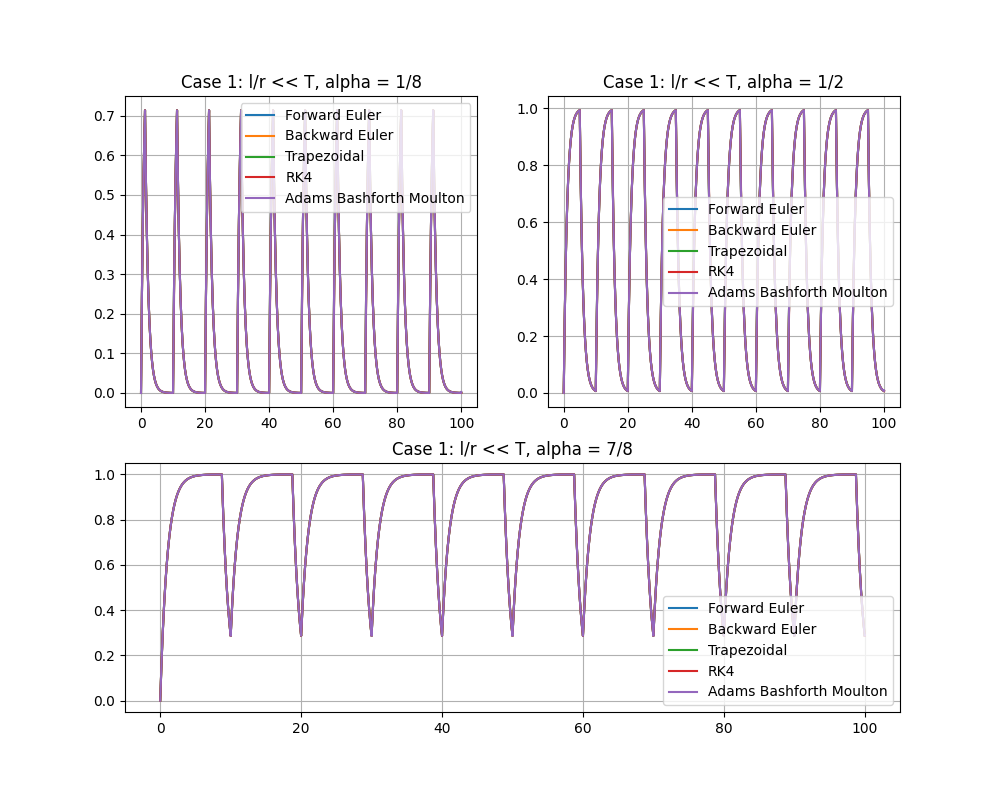
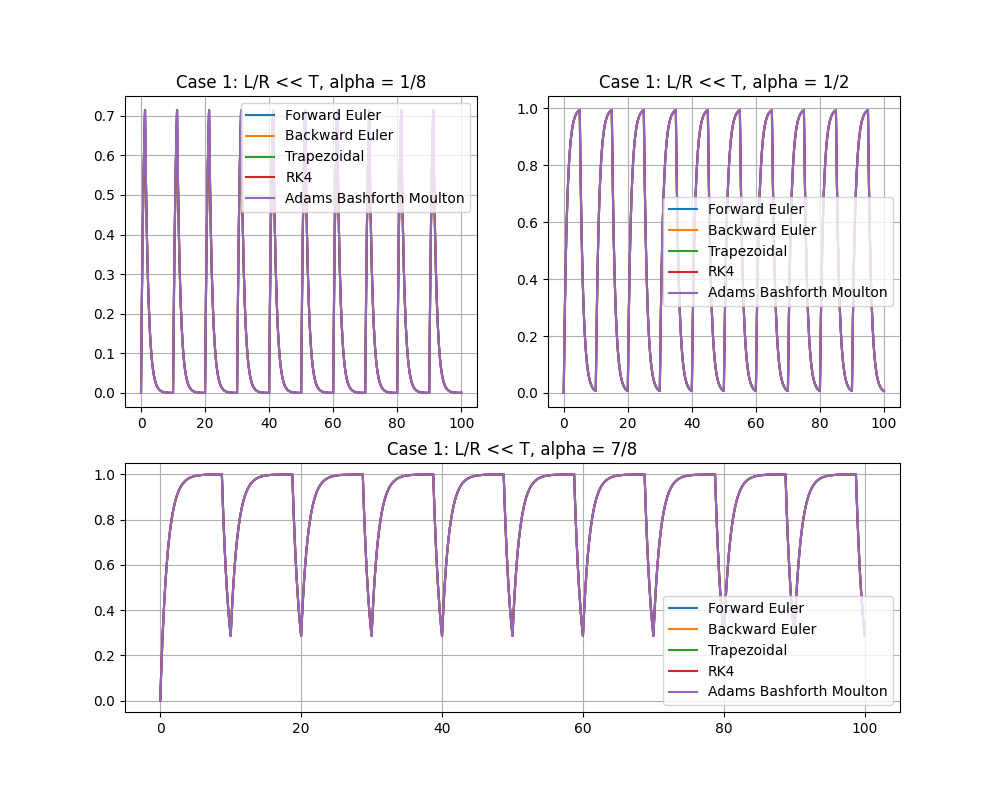
added 3d alpha plot

diff --git a/plots.py b/plots.py
@@ -10,6 +10,7 @@ amp = 1
 T = 10
 h = 0.001
 n = 100000
+n_alpha = 20000
 cases = ["<<", "=", ">>"]
 
 #plotting for the 3 cases of l/r
@@ -26,7 +27,7 @@ for i in range(3):
     ax1.plot(nm.rl_adams_bashforth_moulton(r, l, alpha, amp, T, h, n)[0], nm.rl_adams_bashforth_moulton(r, l, alpha, amp, T, h, n)[1], label = "Adams Bashforth Moulton")
     #plt.plot(nm.rl_milne_simpson(r, l, alpha, amp, T, h, n)[0], nm.rl_milne_simpson(r, l, alpha, amp, T, h, n)[1], label = "Milne Simpson")
     ax1.legend()
-    case = "Case " + str(i + 1) + ": l/r " + cases[i] + " T, alpha = 1/8"
+    case = "Case " + str(i + 1) + ": L/R " + cases[i] + " T, alpha = 1/8"
     ax1.set_title(case)
     ax1.grid(True)
 
@@ -40,7 +41,7 @@ for i in range(3):
     ax1.plot(nm.rl_adams_bashforth_moulton(r, l, alpha, amp, T, h, n)[0], nm.rl_adams_bashforth_moulton(r, l, alpha, amp, T, h, n)[1], label = "Adams Bashforth Moulton")
     #plt.plot(nm.rl_milne_simpson(r, l, alpha, amp, T, h, n)[0], nm.rl_milne_simpson(r, l, alpha, amp, T, h, n)[1], label = "Milne Simpson")
     ax1.legend()
-    case = "Case " + str(i + 1) + ": l/r " + cases[i] + " T, alpha = 1/2"
+    case = "Case " + str(i + 1) + ": L/R " + cases[i] + " T, alpha = 1/2"
     ax1.set_title(case)
     ax1.grid(True)
 
@@ -54,11 +55,26 @@ for i in range(3):
     ax1.plot(nm.rl_adams_bashforth_moulton(r, l, alpha, amp, T, h, n)[0], nm.rl_adams_bashforth_moulton(r, l, alpha, amp, T, h, n)[1], label = "Adams Bashforth Moulton")
     #plt.plot(nm.rl_milne_simpson(r, l, alpha, amp, T, h, n)[0], nm.rl_milne_simpson(r, l, alpha, amp, T, h, n)[1], label = "Milne Simpson")
     ax1.legend()
-    case = "Case " + str(i + 1) + ": l/r " + cases[i] + " T, alpha = 7/8"
+    case = "Case " + str(i + 1) + ": L/R " + cases[i] + " T, alpha = 7/8"
     ax1.set_title(case)
     ax1.grid(True)
     #saving the plots
     plt.savefig("figs/Case_" + str(i + 1) + ".png")
+    plt.show()
+
+    #General case for all values of alpha
+    plt.figure()
+    ax = plt.axes(projection='3d')
+    alpha = np.linspace(0, 1, 50)
+    time = np.linspace(0, 20, n_alpha)
+    for j in alpha:
+        ax.plot3D(time, np.full_like(time, j), nm.rl_rk4(r, l, j, amp, T, h, n_alpha)[1][:])
+    ax.set_xlabel("Time")
+    ax.set_ylabel("Alpha")
+    ax.set_zlabel("Current")
+    ax.set_title("General Case: L/R " + cases[i] + " T")
+    ax.view_init(elev = 25, azim = -108)
+    plt.savefig("figs/General_Case_" + str(i + 1) + ".png")
     plt.show()
 
     T /= 10
